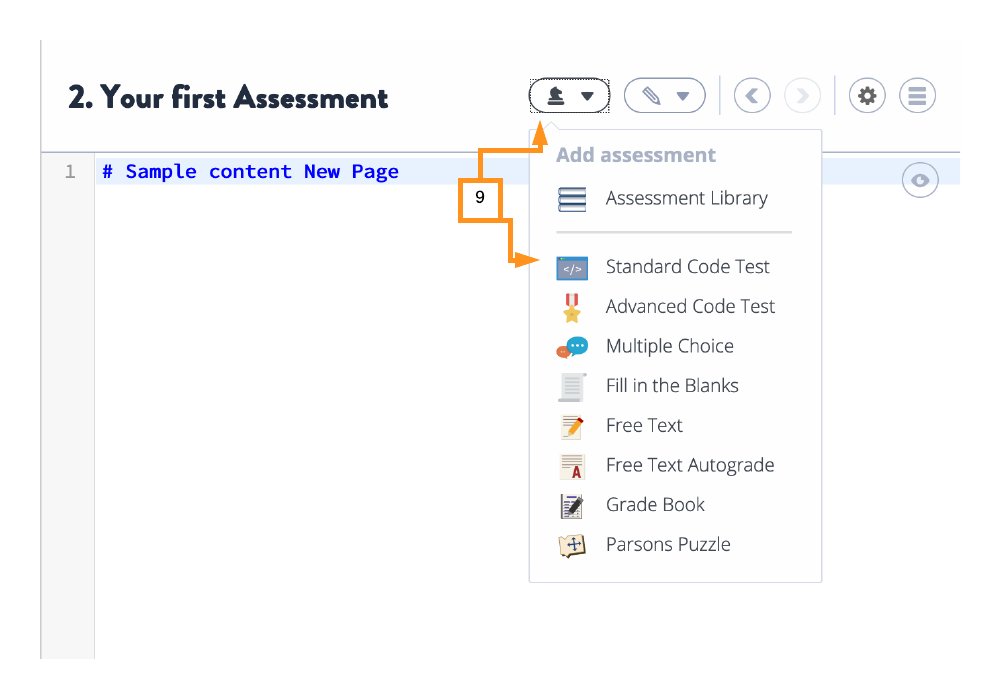
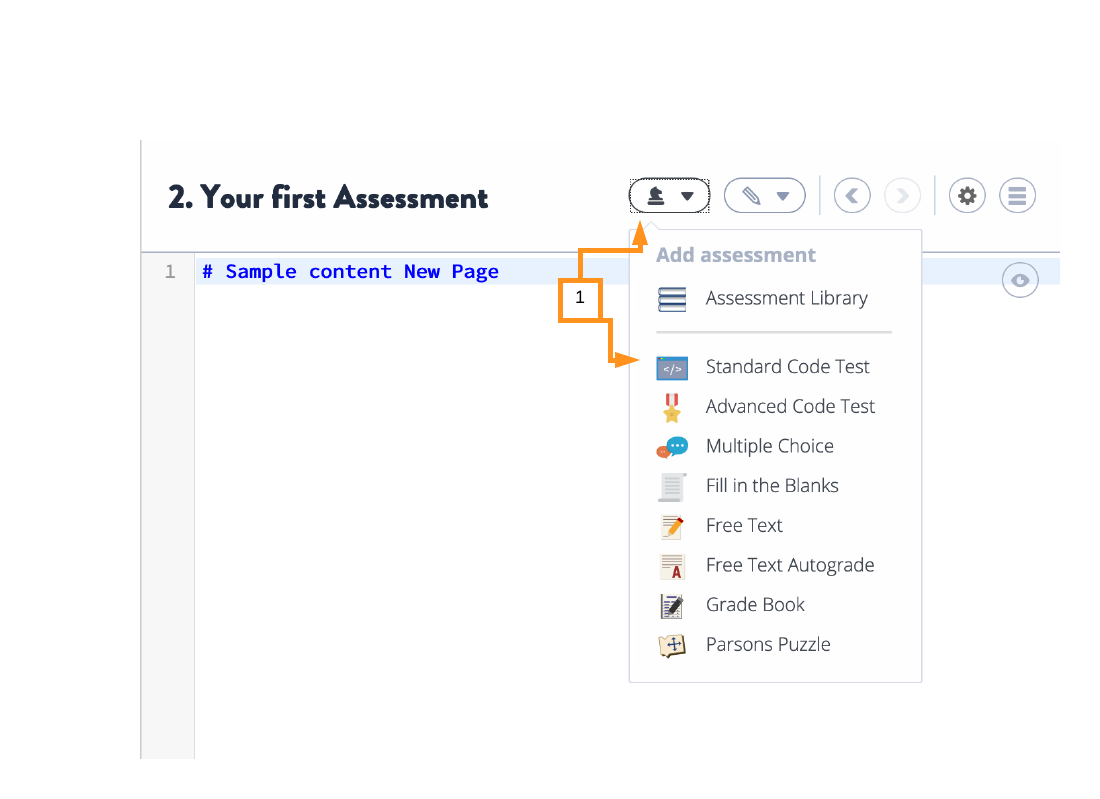
Review updates

diff --git a/.guides/content/Creating-an-Assessment-539d.md b/.guides/content/Creating-an-Assessment-539d.md
@@ -15,47 +15,47 @@ Your student will enter their code test in a file which will be displayed in a p
 
 To set this up: 
 
-5. Click on the **Settings** button and make these page settings changes:
+1. Click on the **Settings** button and make these page settings changes:
 
 
 ![.guides/img/pageSettings](.guides/img/pageSettings.png)
 
-6. Click on **Open Tabs**, it will ask you if you want to save your changes, click **Yes**. 
+2. Click on **Open Tabs**, it will ask you if you want to save your changes, click **Yes**. 
 
-7. From your file tree, drag `test.py` into the **Add Tab** area. Alternatively, you can click on **Add Tab** and type the file name.
+3. From your file tree, drag `test.py` into the **Add Tab** area. Alternatively, you can click on **Add Tab** and type the file name.
 
-8. Click **Save and Close Settings**.
+4. Click **Save and Close Settings**.
 
 ![.guides/img/openTabs](.guides/img/openTabs.png)
 
 ## Creating the Assessment
-9. Click on the **Assessments dropdown menu** and select **Standard Code Test**
+2. Click on the **Assessments dropdown menu** and select **Standard Code Test**
 
 ![.guides/img/assessmentDropdown](.guides/img/assessmentDropdown.png)
 
-10. Make sure **GENERAL** is selected
+2. Make sure **GENERAL** is selected
 
-11. Enter Assessment 1 in the **NAME** field
+3. Enter Assessment 1 in the **NAME** field
 
-12. Paste the following into the **Instructions** section:
+4. Paste the following into the **Instructions** section:
 
 `Change the print statement to say "Hello Python!"`
 ![.guides/img/generalAssessment](.guides/img/generalAssessment.png)
 
-13. Select **EXECUTION** and type `python3 test.py` in the **COMMAND** field.
+5. Select **EXECUTION** and type `python3 test.py` in the **COMMAND** field.
 
 ![.guides/img/executionAssessment](.guides/img/executionAssessment.png)
 
 
-14. Select **GRADING**.
+6. Select **GRADING**.
 
-15. In the **EXPECTED OUTPUT** field enter `Hello Python!` 
+7. In the **EXPECTED OUTPUT** field enter `Hello Python!` 
 
-16. Click the **SHOW ERROR FEEDBACK** toggle.
+8. Click the **SHOW ERROR FEEDBACK** toggle.
 
-17. in the **ERROR FEEDBACK** field enter `Did you use the correct punctuation?` 
+9. In the **ERROR FEEDBACK** field enter `Did you use the correct punctuation?` 
 
-18. Click **SAVE**.
+10. Click **SAVE**.
 ![.guides/img/gradingAssessment](.guides/img/gradingAssessment.png)
 
 On the next page you will learn how to pull in existing Assessments. 

diff --git a/.guides/content/Adding-teaching-assistants-5d7c.md b/.guides/content/Adding-teaching-assistants-5d7c.md
@@ -5,9 +5,9 @@ You can add additional teaching assistants for a selected course by sending an e
 2. Click on **Edit** next to **Teachers** area then the **Add Teacher** link
 
 ![.guides/img/AddTA](.guides/img/AddTA.png)
- 
-3. If they are already members in the organization, find them in the **ADD USER FROM ORGANIZATION AS TEACHER** area and press the **Done** button once you are ready to add them.
+3.
+    a. If they are already members in the organization, find them in the **ADD USER FROM ORGANIZATION AS TEACHER** area and press the **Done** button once you are ready to add them.
 
-4. If they are not existing teachers in the organization (or they may be TA's and a student in another course), you can send them an email invitation to join the course as a teacher.
+    b. If they are not existing teachers in the organization (or they may be TA's and a student in another course), you can send them an email invitation to join the course as a teacher.
 
 ![.guides/img/addClassTeacher](.guides/img/addClassTeacher.png)

diff --git a/.guides/content/Creating-a-course-4e79.md b/.guides/content/Creating-a-course-4e79.md
@@ -1,6 +1,7 @@
 You use Markdown to create formatted content. Markdown provides many of the formatting capabilities without the need to dive into more complicated HTML syntax. You can find more information about Markdown in the [Codio documention](https://codio.com/docs/content/authoring/page-edit/edit/).
 
-1. Open the Guides editor by selecting **Tools->Guides->Edit**.
+1. Open the Guides editor by selecting 
+**Tools->Guides->Edit**.
 
 2. To edit content and view the rendered version at the same time, click the **Panel Layout** dropdown menu and select **Split View**.
 

diff --git a/.guides/content/Getting-started-with-Codio-5bd0.md b/.guides/content/Getting-started-with-Codio-5bd0.md
@@ -6,9 +6,9 @@ This Guide is authored using Codio Guides. Guides is a content authoring feature
 ### Navigating this Guide
 To navigate this guide you can 
 
-- use the navigation buttons in the toolbar
+- use the navigation buttons in the toolbar.
 - use the "Hamburger" icon on the right of the toolbar to view a complete page list where you can click on a page to navigate to it. 
-- use the 'Next' button at the bottom of every page
+- use the 'Next' button at the bottom of every page.
 
 
 ![.guides/img/navigationKeys](.guides/img/navigationKeys.png)

diff --git a/.guides/content/More-information-1e63.md b/.guides/content/More-information-1e63.md
@@ -10,7 +10,7 @@
 
 [Demo GUI Output](https://codio.com/home/starter-packs/d9c00215-ec2a-46e7-b64e-85fab45b0872) - Information for creating projects with GUI output.
 
-[Guides Books Cheat Sheet](https://codio.com/home/starter-packs/cb114a27-d88e-4b74-a2a0-518ccb30dc44) - Information about formatting features available in Codio.
+[Hello Codio Starter Packs](https://codio.com/home/starter-packs?tab=2&sDirection=desc&sProp=installCount&filter=hello+codio) - Instructional Guides demonstrating how to create lessons in multiple programming languages.
 
 
 

diff --git a/.guides/content/Your-first-project---Hello-World-e536.md b/.guides/content/Your-first-project---Hello-World-e536.md
@@ -15,6 +15,7 @@ Follow these steps to create your first Codio project.
 To learn about the other available features when starting a new project, see the [Creating and importing a project](https://codio.com/docs/project/creating/) section of the documentation.
 
 3. Select the **Python** stack
+![.guides/img/startPython](.guides/img/startPython.png)
 
 
 ### Project name
